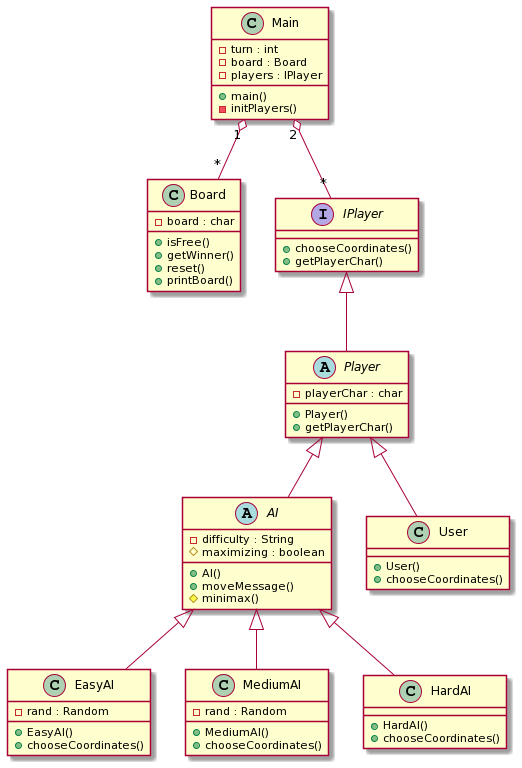
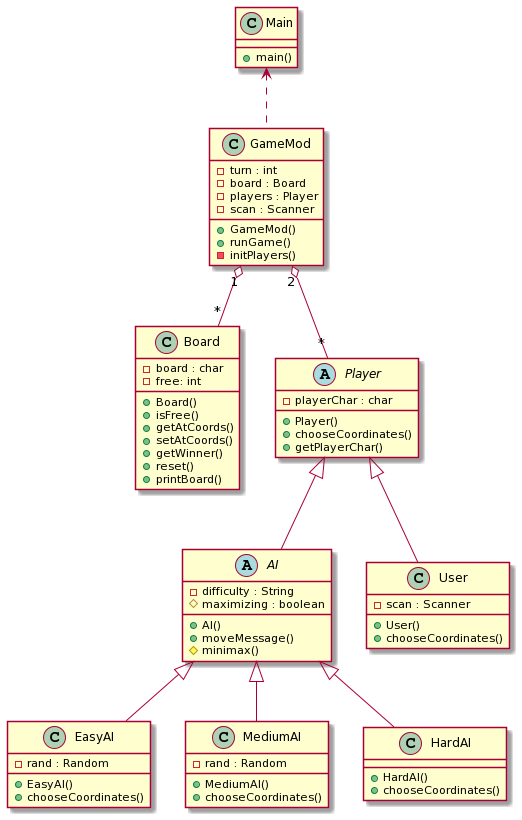
Updated class diagram.

diff --git a/src/player/User.java b/src/player/User.java
@@ -11,7 +11,7 @@ public class User extends Player {
     /**
      * Pozwala pobrać wejście od użytkownika.
      */
-    Scanner scan;
+    private Scanner scan;
 
     /**
      * Konstruktor obiektu gracza-użytkownika.
